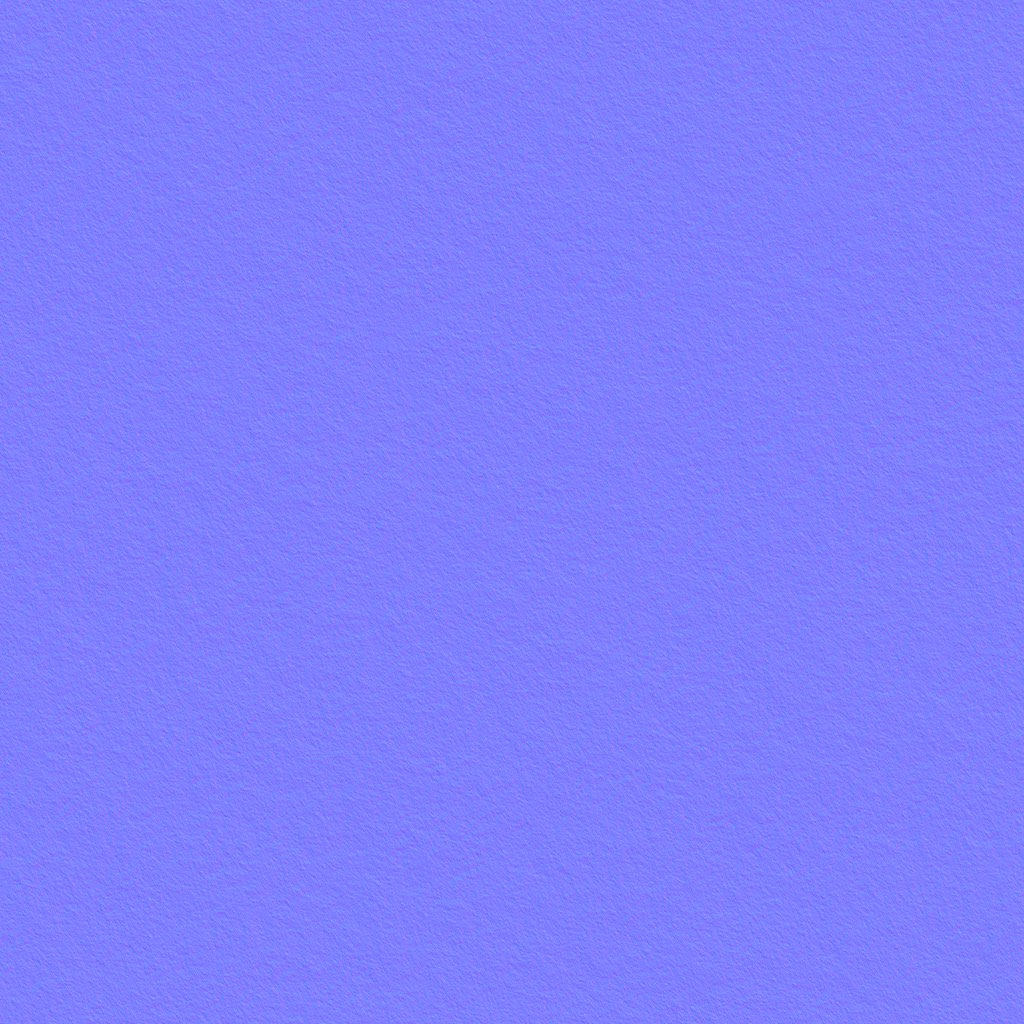
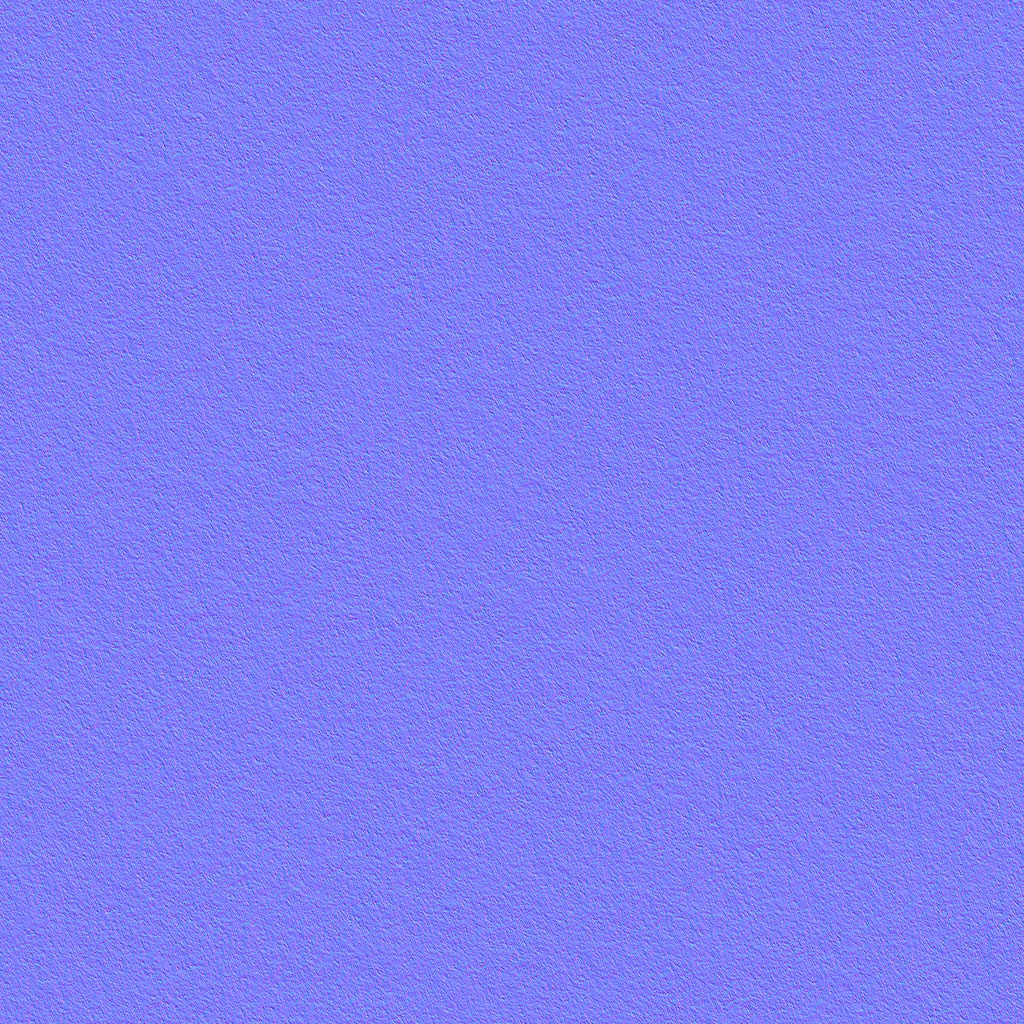
Rough stone, shaded corners, a finer gilt sky
The dressed stone's texture had rain streaks drawn into it stretched to an
eighth of their height, which on the sphere and the great walls read as a
stretched texture: it is now an even grain the same in every direction,
with pits and soft blotches, and a deeper normal map. The rain marks the
shader adds are short and patchy. A fine procedural bump gives the stone a
rough, pitted surface close up, fading out before it could shimmer, and
the stone is matte.

Ambient occlusion: corners, crevices and the feet of walls darken where the
sky's light can't reach, measured from the picture's depth at half its
size, on the machines that already draw the spread of light (Medium and
High; about 1.5% of a frame on High, nothing on Low).

The constellations are drawn finer and dimmer, in gold leaf that keeps a
faint warmth of its own and catches a glint as you move.

Changed region(s): [[0.0, 0.0, 1.0, 1.0]]

diff --git a/web/src/post.js b/web/src/post.js
@@ -2,6 +2,8 @@
 // a star or the sky can be far brighter than white, and that brightness spreads a little into what is
 // round it, as it does in an eye or a lens. Then one pass sets the exposure, darkens the corners
 // slightly, and adds a grain finer than a grey level, which keeps the dark vault from banding.
+// Where the machine can afford it, corners and crevices are darkened as the sky's light fails to reach
+// into them: ambient occlusion, measured from the depth of the picture at half its size.
 import * as THREE from 'three';
 
 const VERT = 'varying vec2 vUv; void main(){ vUv = position.xy * 0.5 + 0.5; gl_Position = vec4(position.xy, 0.0, 1.0); }';
@@ -20,7 +22,30 @@ export function makePost(renderer) {
   const pass = (fragmentShader, uniforms, extra = {}) => new THREE.ShaderMaterial({ vertexShader: VERT, fragmentShader, uniforms, depthTest: false, depthWrite: false, toneMapped: false, ...extra });
   const image = (w, h, samples = 0, depthBuffer = false) => new THREE.WebGLRenderTarget(w, h, { type: THREE.HalfFloatType, samples, depthBuffer, stencilBuffer: depthBuffer, magFilter: THREE.LinearFilter, minFilter: THREE.LinearFilter });
 
-  const target = image(2, 2, 4, true), levels = Array.from({ length: LEVELS }, () => image(2, 2));
+  const target = image(2, 2, 4, true), levels = Array.from({ length: LEVELS }, () => image(2, 2)), shade = image(2, 2);
+  target.depthTexture = new THREE.DepthTexture(2, 2, THREE.FloatType);
+  target.depthTexture.format = THREE.DepthStencilFormat;
+  const view = { proj: { value: new THREE.Matrix4() }, projInv: { value: new THREE.Matrix4() } }, reversed = { value: 0 }, depthTexel = { value: new THREE.Vector2() };
+  // each point looks out over a small hemisphere, about a stride across up close and wider with distance,
+  // and counts how much of it the picture's own surfaces fill
+  const occlusion = pass(`uniform sampler2D depth; uniform mat4 proj, projInv; uniform float reversed; uniform vec2 texel; varying vec2 vUv;
+    vec3 at(vec2 uv) { float d = texture2D(depth, uv).r; vec4 v = projInv * vec4(uv * 2.0 - 1.0, reversed > 0.5 ? d : d * 2.0 - 1.0, 1.0); return v.xyz / v.w; }
+    void main() {
+      float d = texture2D(depth, vUv).r;
+      if (reversed > 0.5 ? d <= 0.0 : d >= 1.0) { gl_FragColor = vec4(1.0); return; }
+      vec3 p = at(vUv), n = normalize(cross(at(vUv + vec2(texel.x, 0.0)) - p, at(vUv + vec2(0.0, texel.y)) - p));
+      if (dot(n, p) > 0.0) n = -n;
+      vec3 t = normalize(cross(n, abs(n.y) < 0.9 ? vec3(0.0, 1.0, 0.0) : vec3(1.0, 0.0, 0.0))), b = cross(n, t);
+      float radius = clamp(-p.z * 0.05, 0.8, 12.0), spin = fract(52.9829189 * fract(dot(gl_FragCoord.xy, vec2(0.06711056, 0.00583715)))), hidden = 0.0;
+      for (int i = 0; i < 8; i++) {
+        float f = (float(i) + spin) / 8.0, a = float(i) * 2.39996 + spin * 6.2832, r = sqrt(f);
+        vec3 s = p + radius * (t * cos(a) * r + b * sin(a) * r + n * (0.2 + 0.8 * fract(f * 7.31 + spin)));
+        vec4 c = proj * vec4(s, 1.0);
+        vec2 uv = c.xy / c.w * 0.5 + 0.5;
+        float z = at(uv).z;
+        hidden += step(s.z + 0.02 * radius, z) * smoothstep(0.0, 1.0, radius / abs(p.z - z));
+      }
+      gl_FragColor = vec4(vec3(pow(1.0 - hidden / 8.0, 1.8)), 1.0); }`, { depth: { value: target.depthTexture }, proj: view.proj, projInv: view.projInv, reversed, texel: depthTexel });
   const src = { value: null }, texel = { value: new THREE.Vector2() }, first = { value: 0 };
   // down: each level is the one above at half the size, through a soft 4-tap box; the first weighs
   // each tap down by its own brightness, so one glinting pixel does not flicker across the picture
@@ -35,8 +60,12 @@ export function makePost(renderer) {
       s += (texture2D(src, vUv + texel * vec2(-1.0, 0.0)).rgb + texture2D(src, vUv + texel * vec2(1.0, 0.0)).rgb + texture2D(src, vUv + texel * vec2(0.0, -1.0)).rgb + texture2D(src, vUv + texel * vec2(0.0, 1.0)).rgb) * 2.0;
       s += texture2D(src, vUv + texel * vec2(-1.0, -1.0)).rgb + texture2D(src, vUv + texel * vec2(1.0, -1.0)).rgb + texture2D(src, vUv + texel * vec2(-1.0, 1.0)).rgb + texture2D(src, vUv + texel * vec2(1.0, 1.0)).rgb;
       gl_FragColor = vec4(s / 16.0, 1.0); }`, { src, texel }, { blending: THREE.CustomBlending, blendSrc: THREE.OneFactor, blendDst: THREE.OneFactor, blendEquation: THREE.AddEquation });
-  const final = pass(`uniform sampler2D scene, spread; uniform float amount, time; varying vec2 vUv;
+  const final = pass(`uniform sampler2D scene, spread, shade; uniform float amount, time, shadeAmount, shadeView; uniform vec2 shadeTexel; varying vec2 vUv;
     void main(){ vec3 c = texture2D(scene, vUv).rgb;
+      float occ = 0.25 * (texture2D(shade, vUv + shadeTexel * vec2(-0.5, -0.5)).r + texture2D(shade, vUv + shadeTexel * vec2(0.5, -0.5)).r
+                        + texture2D(shade, vUv + shadeTexel * vec2(-0.5, 0.5)).r + texture2D(shade, vUv + shadeTexel * vec2(0.5, 0.5)).r);
+      c *= mix(1.0, occ, shadeAmount);
+      if (shadeView > 0.5) c = vec3(occ) * 0.5;
       c = mix(c, texture2D(spread, vUv).rgb * ${(1 / LEVELS).toFixed(3)}, amount);
       vec2 q = vUv - 0.5; c *= 1.0 - 0.34 * smoothstep(0.25, 0.95, dot(q, q) * 2.0);
       gl_FragColor = vec4(c, 1.0);
@@ -48,7 +77,7 @@ export function makePost(renderer) {
       gl_FragColor.rgb += mix(vec3(-0.012, 0.0, 0.016), vec3(0.022, 0.008, -0.022), smoothstep(0.2, 0.8, g)) * smoothstep(0.02, 0.18, g);   // a print's split: cool shade, warm light; black stays black
       float n = fract(52.9829189 * fract(dot(gl_FragCoord.xy + fract(time) * vec2(37.0, 17.0), vec2(0.06711056, 0.00583715))));
       gl_FragColor.rgb += (n - 0.5) * (1.0 / 160.0 + 0.022 * g * (1.0 - g)); }`,
-    { scene: { value: target.texture }, spread: { value: levels[0].texture }, amount: { value: 0.07 }, time: { value: 0 } }, { toneMapped: true });
+    { scene: { value: target.texture }, spread: { value: levels[0].texture }, shade: { value: shade.texture }, shadeTexel: { value: new THREE.Vector2() }, shadeAmount: { value: 0 }, shadeView: { value: new URLSearchParams(location.search).has('aoview') ? 1 : 0 }, amount: { value: 0.07 }, time: { value: 0 } }, { toneMapped: true });
 
   const size = new THREE.Vector2();
   const draw = (material, to) => { quad.material = material; renderer.setRenderTarget(to); renderer.render(stage, flat); };
@@ -66,6 +95,8 @@ export function makePost(renderer) {
       target.setSize(size.x, size.y);
       let w = size.x, h = size.y;
       for (const l of levels) { w = Math.max(2, w >> 1); h = Math.max(2, h >> 1); l.setSize(w, h); }
+      shade.setSize(Math.max(2, size.x >> 1), Math.max(2, size.y >> 1));
+      final.uniforms.shadeTexel.value.set(1 / shade.width, 1 / shade.height);
     },
     render(scene, camera, time = 0) {
       if (!post.on) { renderer.setRenderTarget(null); renderer.render(scene, camera); return; }
@@ -77,6 +108,13 @@ export function makePost(renderer) {
         levels.forEach((l, i) => { src.value = from.texture; texel.value.set(0.5 / from.width, 0.5 / from.height); first.value = i ? 0 : 1; draw(down, l); from = l; });
         for (let i = LEVELS - 1; i > 0; i--) { src.value = levels[i].texture; texel.value.set(1 / levels[i].width, 1 / levels[i].height); draw(up, levels[i - 1]); }
       }
+      if (post.glow) {                                // the machines that can spread light can also afford the shade in the corners
+        view.proj.value.copy(camera.projectionMatrix); view.projInv.value.copy(camera.projectionMatrixInverse);
+        reversed.value = renderer.state.buffers.depth.getReversed() ? 1 : 0;
+        depthTexel.value.set(2 / target.width, 2 / target.height);
+        draw(occlusion, shade);
+      }
+      final.uniforms.shadeAmount.value = post.glow ? 0.85 : 0;
       final.uniforms.amount.value = post.glow ? 0.07 : 0;
       final.uniforms.time.value = time;
       draw(final, null);

diff --git a/web/src/world.js b/web/src/world.js
@@ -97,7 +97,17 @@ function weathered(mat, { streaks = 1, courses = false, level = 1, loose = false
     s.uniforms.skyLevel = SKY_LEVEL;
     s.vertexShader = s.vertexShader.replace('#include <common>', `#include <common>\nvarying vec3 vWP, vBaked; attribute vec3 baked;${carved ? ' attribute float cavity; varying float vCavity;' : ''}`)
       .replace('#include <begin_vertex>', `#include <begin_vertex>\nvWP = (modelMatrix * vec4(position, 1.0)).xyz; vBaked = baked;${carved ? ' vCavity = cavity;' : ''}`);
-    s.fragmentShader = s.fragmentShader.replace('#include <lights_fragment_maps>', `#include <lights_fragment_maps>
+    s.fragmentShader = s.fragmentShader.replace('#include <normal_fragment_maps>', `#include <normal_fragment_maps>
+      {   // the stone's own grain: pitted and uneven at a hand's scale, as limestone is, gone by a hundred metres
+        float near = 1.0 - smoothstep(25.0, 110.0, length(vViewPosition));
+        if (near > 0.0) {
+          float h = 0.55 * vn(vWP * 2.6) + 0.3 * vn(vWP * 7.3 + 3.1) + 0.15 * vn(vWP * 19.0 + 7.7);
+          vec3 sx = dFdx(-vViewPosition), sy = dFdy(-vViewPosition), r1 = cross(sy, normal), r2 = cross(normal, sx);
+          float det = dot(sx, r1) * faceDirection;
+          normal = normalize(abs(det) * normal - sign(det) * (dFdx(h) * r1 + dFdy(h) * r2) * 0.035 * near);
+        }
+      }`)
+      .replace('#include <lights_fragment_maps>', `#include <lights_fragment_maps>
       #ifdef USE_ENVMAP
         iblIrradiance = vec3(0.0);                    // diffuse sky comes from the path traced bake instead
         radiance = vec3(0.0);                         // and the sky isn't reflected, or it would shine indoors too
@@ -126,7 +136,7 @@ function weathered(mat, { streaks = 1, courses = false, level = 1, loose = false
       ${carved ? `float hollow = clamp(vCavity, 0.0, 1.0), proud = clamp(-vCavity, 0.0, 1.0);          // carving: grime gathers in the cuts, and weather pales what stands proud
       diffuseColor.rgb = mix(diffuseColor.rgb * (1.0 + 0.3 * proud), diffuseColor.rgb * vec3(0.3, 0.29, 0.26), 0.85 * hollow * hollow + 0.3 * hollow);` : ''}
       float lng = atan(vWP.z, vWP.x), upright = 1.0 - abs(normalize(cross(dFdx(vWP), dFdy(vWP))).y);
-      diffuseColor.rgb *= 1.0 - ${streaks.toFixed(1)} * 0.2 * upright * upright * smoothstep(0.52, 0.8, fb(vec3(lng * 46.0, vWP.y * 0.016, 2.0)));
+      diffuseColor.rgb *= 1.0 - ${streaks.toFixed(1)} * 0.1 * upright * upright * smoothstep(0.55, 0.85, fb(vec3(lng * 160.0, vWP.y * 0.11, 2.0))) * smoothstep(0.35, 0.65, vn(vWP * 0.05));   // rain marks, short and in patches: long bands read as a stretched texture
       ${courses ? `vec3 sd = normalize(vWP - vec3(0.0, 73.5, 0.0));
       float lat = asin(sd.y) * 75.0, H = ${(1.5 / SCALE).toFixed(3)}, row = floor(lat / H);
       float along = lng * 75.0 * cos(asin(sd.y)) / (H * 2.4) + 0.5 * mod(row, 2.0);
@@ -787,7 +797,7 @@ function makeLamps(buffer) {
  * short of each opening, as on a star chart, and their Latin names in Roman capitals.
  */
 function makeFigures(list) {
-  const R = 66.9, HALF = 0.11, GAP = 1.1, LETTER = 1.6, pos = [], uv = [], nor = [];
+  const R = 66.9, HALF = 0.065, GAP = 1.1, LETTER = 1.6, pos = [], uv = [], nor = [];
   const dir = (d) => new THREE.Vector3(d[0], d[2], -d[1]).normalize();
   const solid = [0.996, 0.002];                     // a white corner of the lettering atlas
   const quad = (a, b, c, d, ua, ub, uc, ud) => {        // corners relative to the sphere's centre
@@ -843,7 +853,15 @@ function makeFigures(list) {
   g.setAttribute('uv', new THREE.Float32BufferAttribute(uv, 2));
   const atlas = new THREE.CanvasTexture(canvas);
   atlas.colorSpace = THREE.SRGBColorSpace; atlas.anisotropy = 4;
-  const paint = weathered(new THREE.MeshStandardMaterial({ color: new THREE.Color(0.8, 0.6, 0.3), map: atlas, alphaTest: 0.35, roughness: 0.6, metalness: 0 }), { streaks: 0 });
+  // gilt: thin gold leaf, dim against the black paint, catching a glint here and there as you move
+  const paint = weathered(new THREE.MeshStandardMaterial({ color: new THREE.Color(0.85, 0.55, 0.16), map: atlas, alphaTest: 0.35, roughness: 0.6, metalness: 0 }), { streaks: 0, level: 0.35 });
+  const painted = paint.onBeforeCompile;
+  paint.onBeforeCompile = (s) => {
+    painted(s);
+    s.fragmentShader = s.fragmentShader.replace('#include <emissivemap_fragment>', `#include <emissivemap_fragment>
+      float leaf = vn(vWP * 9.0 + normalize(vViewPosition) * 6.0);
+      totalEmissiveRadiance += diffuseColor.rgb * vec3(1.0, 0.72, 0.36) * (0.09 + 0.12 * smoothstep(0.7, 0.95, leaf));   // the leaf's own warmth, whatever light reaches it`);
+  };
   return new THREE.Mesh(g, paint);
 }
 
@@ -1006,15 +1024,15 @@ export async function loadWorld(renderer, onProgress) {
   const scene = new THREE.Scene();
   scene.fog = new THREE.FogExp2(0xc9d2dc, 0.0006);   // aerial haze at the ground; its colour follows the sun
 
-  const std = (o) => new THREE.MeshStandardMaterial({ roughness: 0.82, metalness: 0, ...o });
+  const std = (o) => new THREE.MeshStandardMaterial({ roughness: 0.92, metalness: 0, ...o });   // matte: weathered limestone has no sheen
   const LIMESTONE = 0xfbf3ef;      // warms and tones down the neutral stone textures
   const nS = (v) => new THREE.Vector2(v, v);
   const ashlar = weathered(std({ color: LIMESTONE, map: T('ashlar', true), normalMap: T('ashlar_n'), normalScale: nS(0.9) }));
   const stone = T('stone', true), stoneN = T('stone_n');
-  const dressed = weathered(std({ color: LIMESTONE, map: stone, normalMap: stoneN, normalScale: nS(0.5), roughness: 0.74 }), { streaks: 0.4, turn: true });
+  const dressed = weathered(std({ color: LIMESTONE, map: stone, normalMap: stoneN, normalScale: nS(0.5), roughness: 0.9 }), { streaks: 0.4, turn: true });
   const lionStone = weathered(std({ color: 0xefe3cc, map: stone, normalMap: stoneN, normalScale: nS(0.35), roughness: 0.66 }), { streaks: 0.6, carved: true, turn: true });   // a finer, paler block, cut deep
   const boreStone = weathered(std({ color: LIMESTONE, map: stone, normalMap: stoneN, normalScale: nS(0.3), roughness: 0.8 }), { streaks: 0, level: 1.5, turn: true });   // the bake's vertices are too few for these narrow bores
-  const sphere = weathered(std({ color: LIMESTONE, map: stone, normalMap: stoneN, normalScale: nS(0.25), roughness: 0.72, envMapIntensity: 0.45 }), { courses: true, turn: true });
+  const sphere = weathered(std({ color: LIMESTONE, map: stone, normalMap: stoneN, normalScale: nS(0.25), roughness: 0.9, envMapIntensity: 0.45 }), { courses: true, turn: true });
   const vault = weathered(std({ color: new THREE.Color(0.05, 0.05, 0.053), map: stone, normalMap: stoneN, normalScale: nS(0.3), roughness: 0.88, dithering: true }), { courses: true, streaks: 0 });   // painted black, so the stars stand out
   const paving = weathered(std({ color: LIMESTONE, map: T('paving', true), normalMap: T('paving_n'), normalScale: nS(0.7) }), { streaks: 0 });
   const gravel = weathered(std({ color: new THREE.Color(1.22, 1.08, 0.88), map: T('gravel', true), normalMap: T('gravel_n'), normalScale: nS(0.3), roughness: 0.94 }), { streaks: 0, loose: true });

diff --git a/scripts/make_web_textures.py b/scripts/make_web_textures.py
@@ -92,11 +92,13 @@ LIME = (0.80, 0.755, 0.665)          # Lutetian limestone, sRGB
 masonry(1536, 6, 12, 0.035, 0.045, LIME, (0.55, 0.52, 0.46), 7.0, "ashlar")
 masonry(1024, 4, 8, 0.02, 0.05, (0.83, 0.79, 0.71), (0.5, 0.47, 0.42), 2.5, "paving")
 
-# dressed stone: almost plain, faint rain streaks
+# dressed stone: a rough, even grain the same in every direction, soft blotches and small pits; the rain
+# streaks it once had were drawn stretched, and on the great walls read as a stretched texture
 n = 1024
-g, s, f = fractal(n, 2.2), fractal(n, 1.8, 1, 0.12), fractal(n, 0.9)
-write("stone", tint(LIME, 0.93 + 0.1 * (g - 0.5) + 0.1 * (s - 0.5) + 0.03 * (f - 0.5)))
-write("stone_n", normal_map(0.5 * g + 0.25 * f, 0.9))
+g, s, f = fractal(n, 2.2), fractal(n, 0.6), fractal(n, 0.9)     # three draws, in order, so every later texture is unchanged
+pits = smooth(0.7, 0.92, s)
+write("stone", tint(LIME, 0.95 + 0.12 * (g - 0.5) + 0.07 * (f - 0.5) - 0.1 * pits))
+write("stone_n", normal_map(0.4 * g + 0.4 * f - 0.35 * pits, 1.6))
 
 # gravel
 g, m = fractal(n, 0.55), fractal(n, 2.0)
